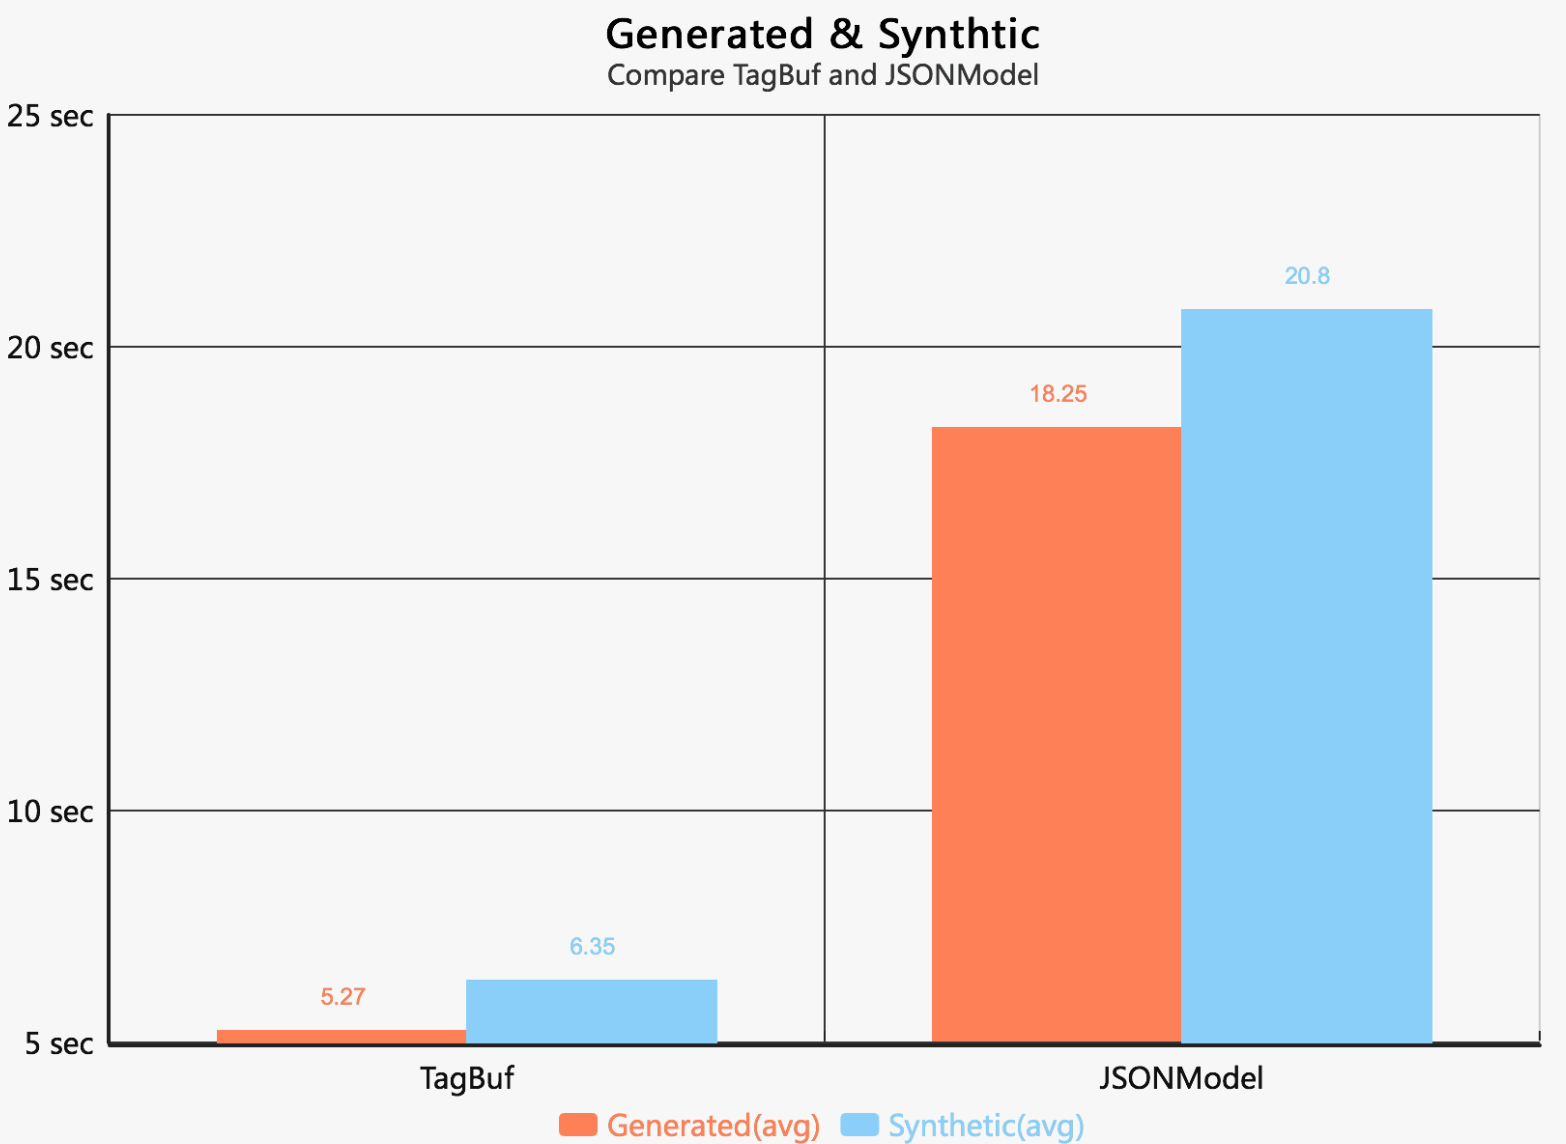
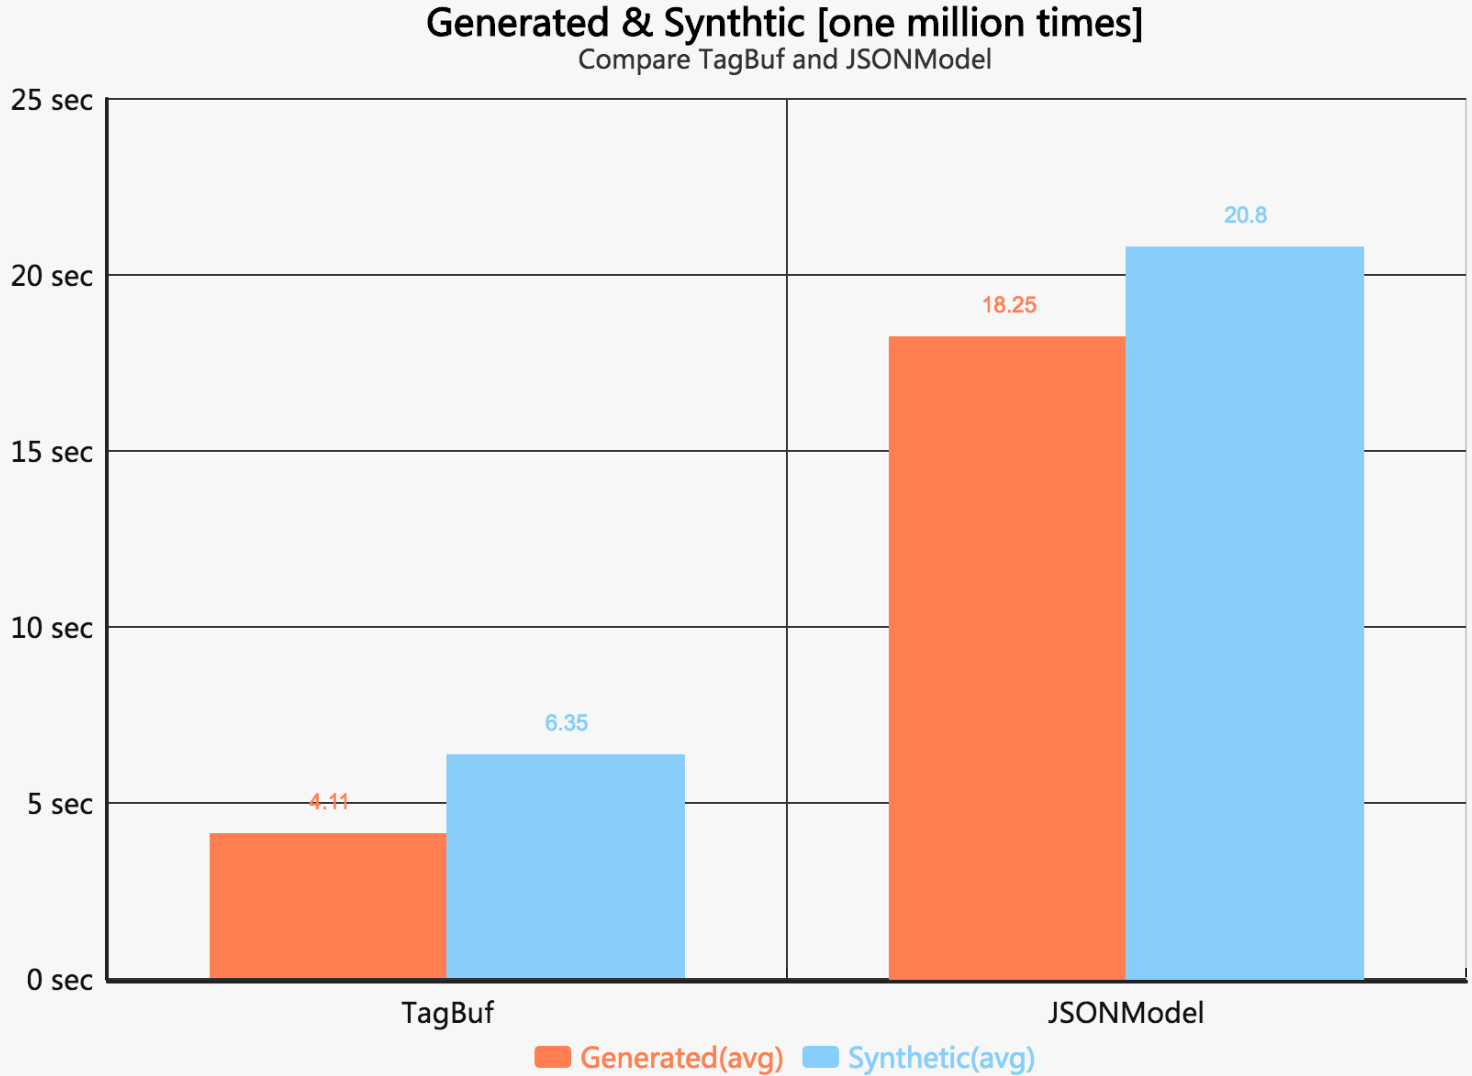
Update somes.

diff --git a/Objective-C/README.md b/Objective-C/README.md
@@ -85,7 +85,7 @@ We test the generated buf/string and synthetic object 1 million times. Below is 
 
 ||Generated(avg)|Synthetic(avg)|
 |---|---|---|
-|TagBuf|5.27sec|6.35sec|
+|TagBuf|4.11sec|6.35sec|
 |JSONModel|18.25sec|20.80sec|
 
 ![](../res/1.png)
@@ -94,7 +94,7 @@ We test 10 times that test 100 thousands every times.
 
 ||0|1|2|3|4|5|6|7|8|9|
 |---|---|---|---|---|---|---|---|---|---|---|
-|TagBuf generated|0.538884|0.504202|0.512431|0.583138|0.520764|0.519910|0.517318|0.520601|0.530910|0.523206|
+|TagBuf generated|0.412428|0.402852|0.407418|0.411216|0.410256|0.416016|0.421624|0.411166|0.424771|0.411057|
 |TagBuf synthetic|0.639692|0.627528|0.623658|0.629398|0.639663|0.642257|0.636524|0.632508|0.643452|0.634625|
 |JSONModel generated|1.861764|1.827200|1.730534|1.714605|1.735006|2.000661|1.872454|2.081739|1.725383|1.700310|
 |JSONModel synthetic|2.162973|2.038030|2.046029|2.047985|2.076460|2.021429|2.044203|2.038306|2.050623|2.269900|
